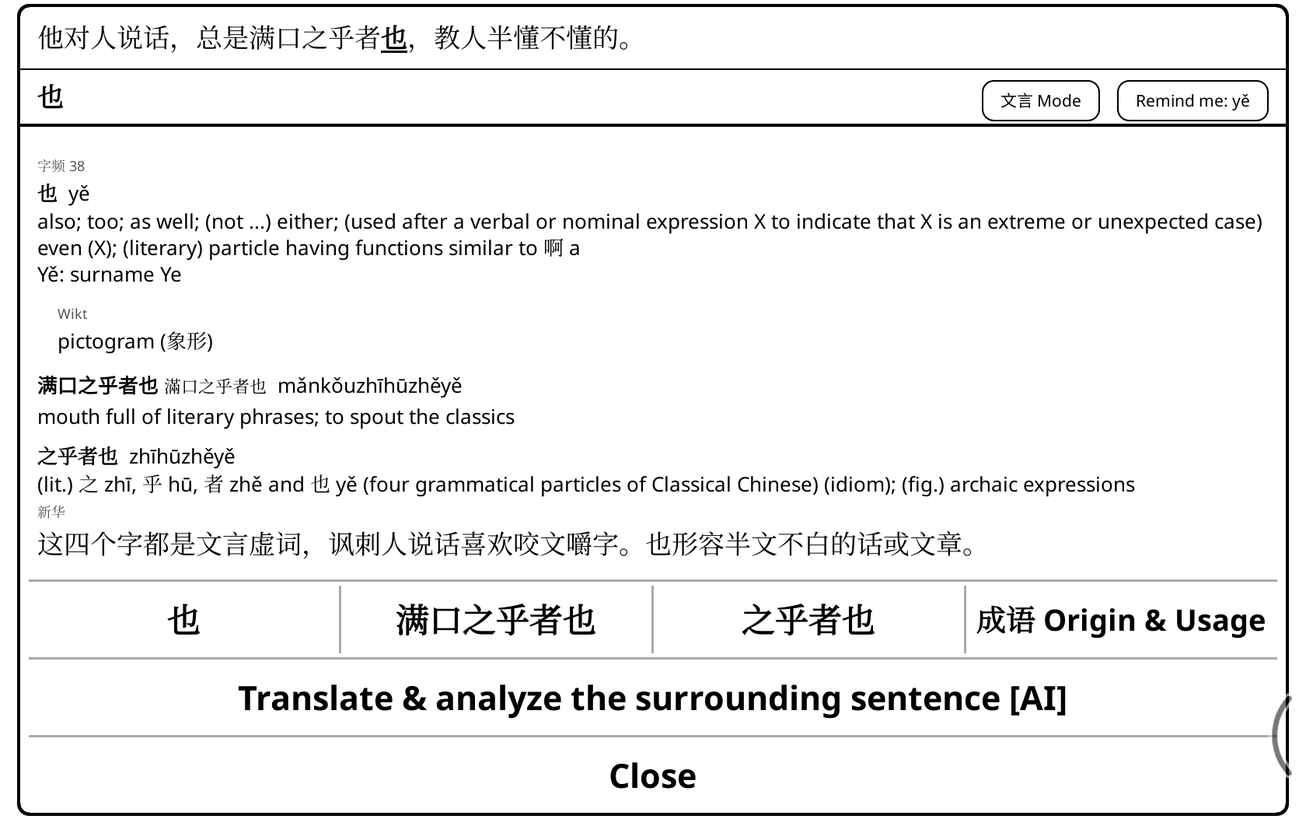
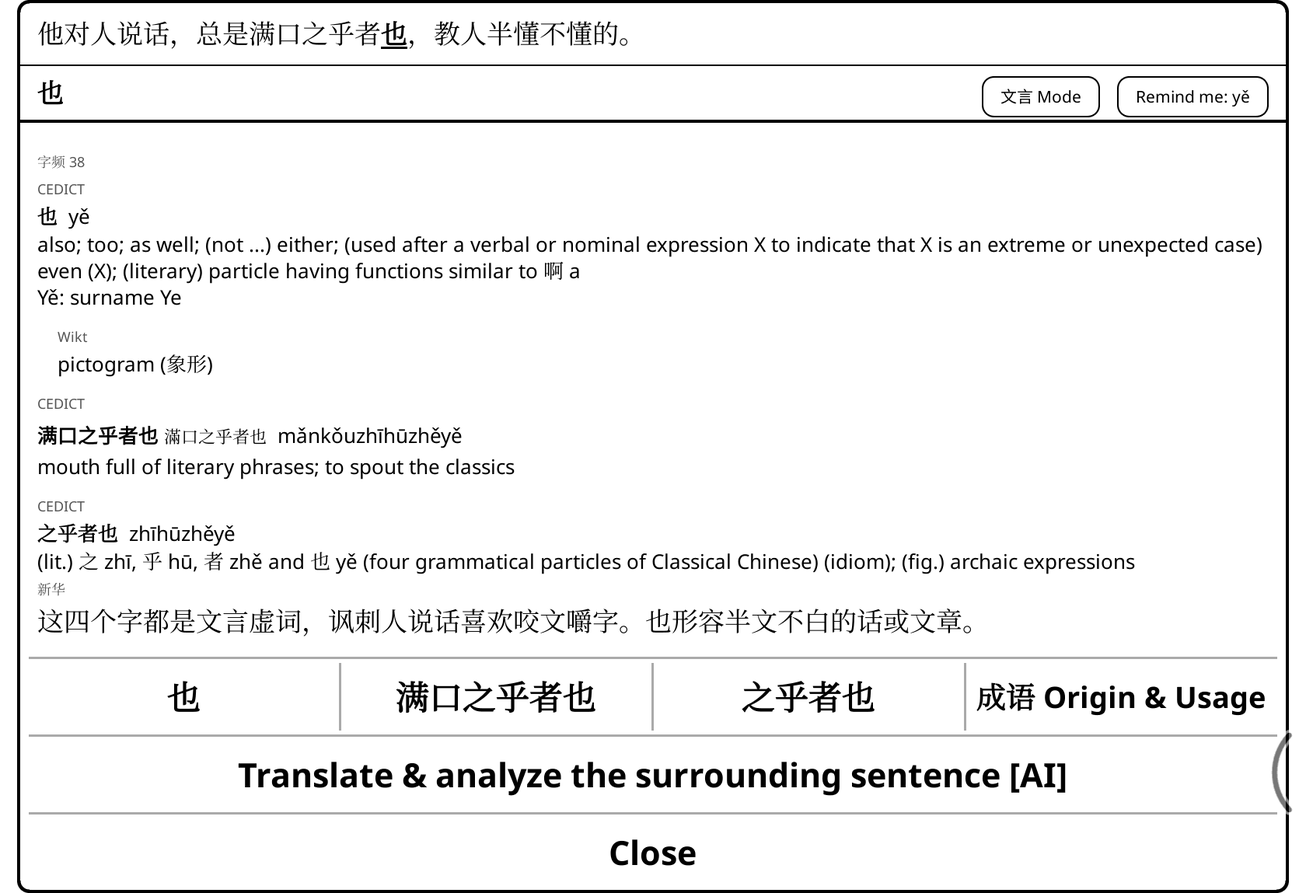
2.17.0: label rows (#59); README shots retaken, crops and the Origin tap moved for the taller popups

Changed region(s): [[0.0, 0.0, 0.9905, 1.0], [0.4333, 0.2431, 0.9595, 0.3039]]

diff --git a/tools/make_screenshots.py b/tools/make_screenshots.py
@@ -150,21 +150,21 @@ SHOTS = {
         frames=[(1, (95, 1191))]),
     "context": dict(page="kyj14", taps=[("间", 1, (773, 500), [
         "**间** 間  jiàn · likely here", "**间或** 間或  jiànhuò · decides 间's reading"])],
-        frames=[(1, (172, 1090))]),
+        frames=[(1, (137, 1126))]),
     "components": dict(page="kyj13", taps=[("茴", 1, (988, 790), [
         "**茴**  huí", "**艹** cǎo  grass; plant (草字头)  → meaning",
         "**回** huí  to go back; to return  → sound (same sound)", "**茴香豆**  huíxiāngdòu"])],
-        frames=[(1, (163, 1100))]),
+        frames=[(1, (120, 1143))]),
     "traditional": dict(page="aq59", taps=[("观", 1, (170, 965), [
         "**观** 觀  guān · likely here", "traditional 觀:", "**雚** guàn", "→ sound (same sound)",
         "simplified: 雚 → 又", "**观音** 觀音  Guānyīn · decides 观's reading"])],
-        frames=[(1, (138, 1124))]),
+        frames=[(1, (103, 1160))]),
     "chengyu": dict(page="kyj13", taps=[("也", 3, (170, 590), [
-        "**之乎者也**  zhīhūzhěyě", "[新华] 这四个字都是文言虚词"]), ("出处", None, (1440, 890), [])],
-        frames=[(1, (105, 1158)), (2, (20, 700))]),
+        "**之乎者也**  zhīhūzhěyě", "[新华] 这四个字都是文言虚词"]), ("出处", None, (1440, 955), [])],
+        frames=[(1, (57, 1206)), (2, (20, 700))]),
     "labels": dict(page="sg1", taps=[("秋", 1, (775, 665), [
         "**秋** 秋/鞦  qiū", "[MMAH]", "  [國語辭典]\n  **秋月春风**", "**秋月春风** 秋月春風  qiū yuè chūn fēng", MOE_QUOTE, "[Wikt]", "**秋月**  qiūyuè"])],
-        frames=[(1, (83, 1179))]),
+        frames=[(1, (66, 1198))]),
     # A character of the popup's own text: 歡, inside MOE's quotation of 〈琵琶行〉
     # (MOE's own characters, #48), opens its popup on top; the context line is
     # the quotation (the device's log must give it as the sentence), the 歡
@@ -172,7 +172,7 @@ SHOTS = {
     "nested": dict(page="sg1", taps=[("秋", 1, (775, 665), ["  [國語辭典]\n  **秋月春风** 秋月春風  qiū yuè chūn fēng",
                                                             MOE_QUOTE]),
                                      (MOE_QUOTE[3], "nested", (1322, 772), [MOE_QUOTE])],
-                   frames=[(2, (83, 1179))]),
+                   frames=[(2, (66, 1198))]),
     "translate": dict(page="kyj13", taps=[("窃", 1, (1465, 995), ["**窃** 竊  qiè"])],
         frames=[(1, (15, 1166))]),
     # The same popup, then its Translate & Analyze button (at `koassistant`):
@@ -200,7 +200,7 @@ SHOTS = {
         frames=[(1, (95, 1191))]),
     # The popup's title-bar button, on 盘 in that paragraph.
     "mark-button": dict(page="aq59", threshold=0, drawn=AQ59_ALL, taps=[("盘", 1, (260, 565), ["**盘** 盤  pán"])],
-                        frames=[(1, (188, 561))]),
+                        frames=[(1, (169, 542))]),
 }
 
 

diff --git a/README.md b/README.md
@@ -26,7 +26,7 @@ never modified.
 
 KOReader 中文阅读插件：点一个字，即可看到它在本句中组成的词及其释义，并标出它在此处的读音；还可在字上方显示拼音，从只标生僻字到每个字都标（学习模式），学会一个读音点一下即可隐去，初学者和熟练读者都适用。
 
-![The opening of 三国演义 第一回 on a Boox Go 7: the chapter title, then the popup on 密. At its top, the line 时有宦官曹节等弄权，窦武、陈蕃谋诛之，作事不密，反为所害，中涓自此愈横。 with 密 in bold and underlined; the title bar, 密 on the left and the buttons 文言 Mode and Remind me: mì on the right; then 字频 646 in small grey, 密 mì, "dense; close; … (bound form) secret; confidential …", "Mì: surname Mi"; its parts, labelled Wikt: 宓 mì still; silent → sound (same sound), 山 shān mountain → meaning; then 不密 bùmì "(literary) not well thought out; (literary) not secret", labelled Wikt; buttons 密 and 不密, then Translate & analyze the surrounding sentence [AI] on its own row, then Close at the bottom. Below the popup, the end of the paragraph's last line, 密，反为所害，中涓自此愈横。, with 密 underlined on the page](docs/main.png)
+![The opening of 三国演义 第一回 on a Boox Go 7: the chapter title, then the popup on 密. At its top, the line 时有宦官曹节等弄权，窦武、陈蕃谋诛之，作事不密，反为所害，中涓自此愈横。 with 密 in bold and underlined; the title bar, 密 on the left and the buttons 文言 Mode and Remind me: mì on the right; then 字频 646 in small grey and, on the row below, the label CEDICT; 密 mì, "dense; close; … (bound form) secret; confidential …", "Mì: surname Mi"; its parts, labelled Wikt: 宓 mì still; silent → sound (same sound), 山 shān mountain → meaning; then 不密 bùmì "(literary) not well thought out; (literary) not secret", labelled Wikt; buttons 密 and 不密, then Translate & analyze the surrounding sentence [AI] on its own row, then Close at the bottom. Below the popup, the end of the paragraph's last line, 密，反为所害，中涓自此愈横。, with 密 underlined on the page](docs/main.png)
 
 It has only been tested on a Boox Go 7, but it should work on any e-reader that runs KOReader:
 Kobo, Kindle, PocketBook, and Android devices such as Boox.
@@ -38,22 +38,22 @@ Kobo, Kindle, PocketBook, and Android devices such as Boox.
 </tr>
 <tr>
 <td><img src="docs/off-on.png" alt="The 临江仙 that opens 三国演义, pinyin off (top) and on (bottom): with it on, only 樵 qiáo and 渚 zhǔ get pinyin, the rest of the page stays clean"><br><a href="#usage"><b>Pinyin only above the hard characters</b></a>, at the level you choose (here the default: outside the 3,500 most common)</td>
-<td><img src="docs/context.png" alt="Popup for 间 in 孔乙己's 虽然间或没有现钱: at the top the line 但他在我们店里，品行却比别人都好，就是从不拖欠；虽然间或没有现钱，… with 间 marked; the 文言 Mode and reading-mark buttons in the title bar; 字频 113, then 间 間 jiàn · likely here, jiān listed after it; its parts 门 and 日 labelled MMAH; 间或 間或 jiànhuò · decides 间's reading, occasionally; now and then"><br><a href="#the-popup"><b>The reading it has here</b></a>, and the word that decides it: 间 is <i>jiàn</i> in 间或</td>
+<td><img src="docs/context.png" alt="Popup for 间 in 孔乙己's 虽然间或没有现钱: at the top the line 但他在我们店里，品行却比别人都好，就是从不拖欠；虽然间或没有现钱，… with 间 marked; the 文言 Mode and reading-mark buttons in the title bar; 字频 113, then the label CEDICT, then 间 間 jiàn · likely here, jiān listed after it; its parts 门 and 日 labelled MMAH; labelled CEDICT, 间或 間或 jiànhuò · decides 间's reading, occasionally; now and then"><br><a href="#the-popup"><b>The reading it has here</b></a>, and the word that decides it: 间 is <i>jiàn</i> in 间或</td>
 </tr>
 <tr>
-<td><img src="docs/components.png" alt="Popup for 茴 in 孔乙己's 要一碟茴香豆: at the top the line 他不回答，对柜里说：“温两碗酒，要一碟茴香豆。” with 茴 marked; the 文言 Mode and reading-mark buttons in the title bar; 字频 4,633, then 茴 huí (bound form) fennel; its parts, labelled Wikt: 艹 cǎo grass; plant (草字头) → meaning, 回 huí to go back → sound (same sound); then 茴香豆 and 茴香"><br><a href="#character-components"><b>What each character is made of</b></a>: 茴 is 艹 for the meaning and 回 <i>huí</i> for the sound</td>
-<td><img src="docs/traditional.png" alt="Popup for 观 in 阿Q正传's 观音娘娘: at the top the line …而且又不见了观音娘娘座前的一个宣德炉。 with 观 marked; the 文言 Mode and reading-mark buttons in the title bar; 字频 407, then 观 觀 guān · likely here (觀 smaller), with guàn and Guàn after it; traditional 觀: 雚 guàn (archaic) stork; heron → sound (same sound), 見 jiàn see → meaning, simplified: 雚 → 又; 观音 觀音 Guānyīn · decides 观's reading"><br><a href="#character-components"><b>Parts the simplification hid</b></a>: 观 is read through 觀, 雚 <i>guàn</i> → sound</td>
+<td><img src="docs/components.png" alt="Popup for 茴 in 孔乙己's 要一碟茴香豆: at the top the line 他不回答，对柜里说：“温两碗酒，要一碟茴香豆。” with 茴 marked; the 文言 Mode and reading-mark buttons in the title bar; 字频 4,633, then the label CEDICT, then 茴 huí (bound form) fennel; its parts, labelled Wikt: 艹 cǎo grass; plant (草字头) → meaning, 回 huí to go back → sound (same sound); then 茴香豆 and 茴香, each labelled CEDICT"><br><a href="#character-components"><b>What each character is made of</b></a>: 茴 is 艹 for the meaning and 回 <i>huí</i> for the sound</td>
+<td><img src="docs/traditional.png" alt="Popup for 观 in 阿Q正传's 观音娘娘: at the top the line …而且又不见了观音娘娘座前的一个宣德炉。 with 观 marked; the 文言 Mode and reading-mark buttons in the title bar; 字频 407, then the label CEDICT, then 观 觀 guān · likely here (觀 smaller), with guàn and Guàn after it; traditional 觀: 雚 guàn (archaic) stork; heron → sound (same sound), 見 jiàn see → meaning, simplified: 雚 → 又; labelled CEDICT, 观音 觀音 Guānyīn · decides 观's reading"><br><a href="#character-components"><b>Parts the simplification hid</b></a>: 观 is read through 觀, 雚 <i>guàn</i> → sound</td>
 </tr>
 <tr>
-<td><img src="docs/chengyu.png" alt="Popup for 也 in 孔乙己's 满口之乎者也: at the top the line 他对人说话，总是满口之乎者也，教人半懂不懂的。 with 也 marked; the 文言 Mode and reading-mark buttons in the title bar; then 字频 38, 也 yě; its Wikt line pictogram (象形), 满口之乎者也 (滿口之乎者也 beside it) and 之乎者也 from CC-CEDICT, 之乎者也 with a Chinese line labelled 新华: 这四个字都是文言虚词，讽刺人说话喜欢咬文嚼字。也形容半文不白的话或文章。; a 成语 Origin &amp; Usage button"><br><a href="#chengyu"><b>Chengyu explained</b></a>: 之乎者也 with Xinhua's line (optional file) …</td>
+<td><img src="docs/chengyu.png" alt="Popup for 也 in 孔乙己's 满口之乎者也: at the top the line 他对人说话，总是满口之乎者也，教人半懂不懂的。 with 也 marked; the 文言 Mode and reading-mark buttons in the title bar; then 字频 38 and the label CEDICT, 也 yě; its Wikt line pictogram (象形), 满口之乎者也 (滿口之乎者也 beside it) and 之乎者也, each labelled CEDICT, 之乎者也 with a Chinese line labelled 新华: 这四个字都是文言虚词，讽刺人说话喜欢咬文嚼字。也形容半文不白的话或文章。; a 成语 Origin &amp; Usage button"><br><a href="#chengyu"><b>Chengyu explained</b></a>: 之乎者也 with Xinhua's line (optional file) …</td>
 <td><img src="docs/chengyu-2.png" alt="The Origin &amp; Usage view for 之乎者也 from 新华成语: 释义; 出处 宋·文莹《湘山野录》：“之乎者也，助得甚事？”; 例句 他对人说话，总是满口之乎者也，叫人半懂不懂的。"><br>… and its <a href="#chengyu"><b>Origin &amp; Usage</b></a> view: the classical source and an example from this same passage of 孔乙己</td>
 </tr>
 <tr>
-<td><img src="docs/classical.png" alt="Popup for 之 in 三国演义's 窦武、陈蕃谋诛之: the line 时有宦官曹节等弄权，窦武、陈蕃谋诛之，作事不密，反为所害，中涓自此愈横。 with 之 marked; the title bar, 之 on the left and the buttons 文言 Mode ✓ and Remind me: zhī on the right; first the block labelled 文言 · 字频 69, in full: 之, him; her; it; them (object pronoun in non-subject position), genitive or attributive marker (possession or modification), nominalizer or subordinate-clause particle in a subject-predicate construct, this; these; that, to go; to arrive; below it 之 zhī (possessive particle, literary equivalent of 的 de); him; her; it from CC-CEDICT; then its parts, labelled Wikt: 止 zhǐ foot → meaning, 一 yī the beginning place → meaning"><br><a href="#classical-mode"><b>Classical mode</b></a>: one tap on 文言 Mode puts the senses classical texts use first, here 之 as <i>him; her; it; them</i> in 窦武、陈蕃谋诛之</td>
-<td><img src="docs/nested.png" alt="Popup for 秋 in the 临江仙, its title bar with the buttons 文言 Mode and Remind me: qiū, and on top of it the popup for 歡, tapped in MOE's quotation of 〈琵琶行〉: its line at the top is 「今年歡笑復明年，秋月春風等閒度。」 with 歡 marked and no buttons in its title bar, then 字频 443, 歡 huān, its parts 雚 and 欠, 歡笑 huānxiào, and the buttons 歡 and 歡笑, then Close at the bottom (no Translate in a popup opened from a popup)"><br><a href="#tapping-a-character-in-the-popup"><b>Read the dictionary by tapping</b></a>: 歡, tapped in MOE's quotation of 〈琵琶行〉, opens its own popup on top</td>
+<td><img src="docs/classical.png" alt="Popup for 之 in 三国演义's 窦武、陈蕃谋诛之: the line 时有宦官曹节等弄权，窦武、陈蕃谋诛之，作事不密，反为所害，中涓自此愈横。 with 之 marked; the title bar, 之 on the left and the buttons 文言 Mode ✓ and Remind me: zhī on the right; first 字频 69, then the label 文言 on a row of its own and the Classical entry, in full: 之, him; her; it; them (object pronoun in non-subject position), genitive or attributive marker (possession or modification), nominalizer or subordinate-clause particle in a subject-predicate construct, this; these; that, to go; to arrive; below it, labelled CEDICT, 之 zhī (possessive particle, literary equivalent of 的 de); him; her; it; then its parts, labelled Wikt: 止 zhǐ foot → meaning, 一 yī the beginning place → meaning"><br><a href="#classical-mode"><b>Classical mode</b></a>: one tap on 文言 Mode puts the senses classical texts use first, here 之 as <i>him; her; it; them</i> in 窦武、陈蕃谋诛之</td>
+<td><img src="docs/nested.png" alt="Popup for 秋 in the 临江仙, its title bar with the buttons 文言 Mode and Remind me: qiū, and on top of it the popup for 歡, tapped in MOE's quotation of 〈琵琶行〉: its line at the top is 「今年歡笑復明年，秋月春風等閒度。」 with 歡 marked and no buttons in its title bar, then 字频 443 and the label CEDICT, 欢 歡 huān, its parts 雚 and 欠 labelled Wikt, 欢笑 歡笑 huānxiào labelled CEDICT, and the buttons 歡 and 歡笑, then Close at the bottom (no Translate in a popup opened from a popup)"><br><a href="#tapping-a-character-in-the-popup"><b>Read the dictionary by tapping</b></a>: 歡, tapped in MOE's quotation of 〈琵琶行〉, opens its own popup on top</td>
 </tr>
 <tr>
-<td><img src="docs/labels.png" alt="Popup for 秋 in the 临江仙's 惯看秋月春风: at the top the line 白发渔樵江渚上，惯看秋月春风。 with 秋 marked; the 文言 Mode and reading-mark buttons in the title bar; 字频 1,442, then 秋 秋/鞦 qiū from CC-CEDICT (used in 鞦韆|秋千 qiūqiān); its parts 禾 and 火 labelled MMAH; 秋月 labelled Wikt; last, 秋月春风 秋月春風 labelled 國語辭典 with MOE's definition in its own traditional characters, in larger type, quoting 白居易's 〈琵琶行〉: 「今年歡笑復明年，秋月春風等閒度。」; a 成语 Origin &amp; Usage button"><br><a href="#fallback-dictionaries"><b>Several dictionaries, each labelled</b></a>: CC-CEDICT for 秋, Wiktionary for 秋月, and MOE (optional) for 秋月春风, in larger type</td>
+<td><img src="docs/labels.png" alt="Popup for 秋 in the 临江仙's 惯看秋月春风: at the top the line 白发渔樵江渚上，惯看秋月春风。 with 秋 marked; the 文言 Mode and reading-mark buttons in the title bar; 字频 1,442, then the label CEDICT on a row of its own, then 秋 秋/鞦 qiū (used in 鞦韆|秋千 qiūqiān); its parts 禾 and 火 labelled MMAH; 秋月 labelled Wikt; last, 秋月春风 秋月春風 labelled 國語辭典 with MOE's definition in its own traditional characters, in larger type, quoting 白居易's 〈琵琶行〉: 「今年歡笑復明年，秋月春風等閒度。」; a 成语 Origin &amp; Usage button"><br><a href="#fallback-dictionaries"><b>Several dictionaries, each labelled</b></a>: CC-CEDICT for 秋, Wiktionary for 秋月, and MOE (optional) for 秋月春风, in larger type</td>
 <td><img src="docs/translate-result.png" alt="KOAssistant's Translate &amp; Analyze viewer, titled with the model gemini-3.5-flash-lite, its whole reply shown as its two pages, joined by a dashed line. Highlighted text: 孔乙己便涨红了脸，额上的青筋条条绽出，争辩道：“窃书不能算偷……窃书！ Translation: Kong Yiji flushed red right away, the veins on his forehead bulging out one by one, and he argued, &quot;Stealing books cannot be considered stealing... stealing books!&quot; Then one line per word, in bold characters with pinyin: 孔乙己 (Kǒng Yǐjǐ) Kong Yiji, the name of the character; 便 (biàn) right away, then; 涨红了脸 (zhǎng hóng le liǎn) flushed red in the face [涨 swell/flush + 红 red + 了 shows change + 脸 face]; 额 (é) forehead; 上 (shàng) on, placed after a noun; 的 (de) connects the forehead to the veins that belong to it; 青筋 (qīng jīn) blue veins; 条条 (tiáo tiáo) strip by strip, one by one, repeated to show multiple veins standing out; 绽出 (zhàn chū) burst out, bulge out; 争辩 (zhēng biàn) argue, debate; 道 (dào) say, used here to introduce spoken words; 窃书 (qiè shū) stealing books, literary, old-fashioned words [窃 steal secretly + 书 book]; 不能 (bù néng) cannot; 算 (suàn) count as; 偷 (tōu) steal, the everyday, common word for stealing, unlike the literary 窃 used earlier. Below, the viewer's buttons: Reply, Copy, Save to Note, Notebook, Pin, Close and others"><br><a href="#translating-the-sentence"><b>Translate &amp; Analyze the sentence</b></a> with KOAssistant: a translation and a plain-English, word-by-word breakdown of 孔乙己's 窃书不能算偷, down to why he says 窃 and not 偷 (your own AI provider, while Wi-Fi is on)</td>
 </tr>
 </table>
@@ -206,7 +206,7 @@ you learn.
 4. For a reading you keep forgetting, the same button on a character without pinyin reads
    **Remind me: …**, which does the opposite: that reading always gets pinyin, at any level.
 
-![The popup for 盘 in 阿Q正传 in learner mode: at the top the sentence 赵秀才消息灵，一知道革命党已在夜间进城，便将辫子盘在顶上，一早去拜访那历来也不相能的钱洋鬼子。 with 盘 marked; then the title bar, 盘 on the left and the buttons 文言 Mode and I know pán on the right; below it 字频 1,107 and 盘 盤 pán with its CC-CEDICT senses](docs/mark-button.png)
+![The popup for 盘 in 阿Q正传 in learner mode: at the top the sentence 赵秀才消息灵，一知道革命党已在夜间进城，便将辫子盘在顶上，一早去拜访那历来也不相能的钱洋鬼子。 with 盘 marked; then the title bar, 盘 on the left and the buttons 文言 Mode and I know pán on the right; below it 字频 1,107, the label CEDICT and 盘 盤 pán with its senses](docs/mark-button.png)
 
 Your marks are kept outside the plugin's folder, so updates and reinstalls keep them (see
 [Known and remind-me readings](#known-and-remind-me-readings) for the file to back up). When the
@@ -389,7 +389,7 @@ font chosen in KOReader's font menu, not a font the book embeds or sets in its C
 that font lacks comes from KOReader's usual fallback fonts. For a PDF, or when the font cannot be
 loaded, the popup uses the UI font. Turned off, the popup is exactly as before.
 
-![A popup for 观 in 阿Q正传: at the top the line 尼姑待他们走后，定了神来检点，龙牌固然已经碎在地上了，而且又不见了观音娘娘座前的一个宣德炉。 with 观 in bold and underlined, then 字频 407 and 观 觀 guān · likely here with its other readings, its traditional form 觀's parts, and 观音 觀音 Guānyīn · decides 观's reading](docs/traditional.png)
+![A popup for 观 in 阿Q正传: at the top the line 尼姑待他们走后，定了神来检点，龙牌固然已经碎在地上了，而且又不见了观音娘娘座前的一个宣德炉。 with 观 in bold and underlined, then 字频 407, the label CEDICT and 观 觀 guān · likely here with its other readings, its traditional form 觀's parts, and, labelled CEDICT, 观音 觀音 Guānyīn · decides 观's reading](docs/traditional.png)
 
 </details>
 
@@ -405,7 +405,7 @@ the entry is for), the components, or the English glosses.
 <details>
 <summary>How popups on popups work</summary>
 
-![Popup for 秋 in the 临江仙, its title bar with the buttons 文言 Mode and Remind me: qiū, and on top of it the popup for 歡, tapped in MOE's quotation of 〈琵琶行〉: its line at the top is 「今年歡笑復明年，秋月春風等閒度。」 with 歡 marked and no buttons in its title bar, then 字频 443, 歡 huān, its parts 雚 and 欠, 歡笑 huānxiào, and the buttons 歡 and 歡笑, then Close at the bottom (no Translate in a popup opened from a popup)](docs/nested.png)
+![Popup for 秋 in the 临江仙, its title bar with the buttons 文言 Mode and Remind me: qiū, and on top of it the popup for 歡, tapped in MOE's quotation of 〈琵琶行〉: its line at the top is 「今年歡笑復明年，秋月春風等閒度。」 with 歡 marked and no buttons in its title bar, then 字频 443 and the label CEDICT, 欢 歡 huān, its parts 雚 and 欠 labelled Wikt, 欢笑 歡笑 huānxiào labelled CEDICT, and the buttons 歡 and 歡笑, then Close at the bottom (no Translate in a popup opened from a popup)](docs/nested.png)
 
 - **Its text is the popup's, not the book's.** The line at the top is the sentence around the
   character in the popup text: cut at 。！？；, a line break, or a closing quote after one of
@@ -552,7 +552,7 @@ checks, where the sources had the sense a classical passage needed, the condense
 times out of 96, and no sense was found that the sources lacked. It is still machine-condensed,
 so if a sense looks odd, check it against CC-CEDICT or MOE. The details are below.
 
-<img src="docs/classical.png" alt="Popup for 之 in 三国演义's 窦武、陈蕃谋诛之: the line 时有宦官曹节等弄权，窦武、陈蕃谋诛之，作事不密，反为所害，中涓自此愈横。 with 之 marked; the title bar, 之 on the left and the buttons 文言 Mode ✓ and Remind me: zhī on the right; first the block labelled 文言 · 字频 69, in full: 之, him; her; it; them (object pronoun in non-subject position), genitive or attributive marker (possession or modification), nominalizer or subordinate-clause particle in a subject-predicate construct, this; these; that, to go; to arrive; below it 之 zhī (possessive particle, literary equivalent of 的 de); him; her; it from CC-CEDICT; then its parts, labelled Wikt: 止 zhǐ foot → meaning, 一 yī the beginning place → meaning">
+<img src="docs/classical.png" alt="Popup for 之 in 三国演义's 窦武、陈蕃谋诛之: the line 时有宦官曹节等弄权，窦武、陈蕃谋诛之，作事不密，反为所害，中涓自此愈横。 with 之 marked; the title bar, 之 on the left and the buttons 文言 Mode ✓ and Remind me: zhī on the right; first 字频 69, then the label 文言 on a row of its own and the Classical entry, in full: 之, him; her; it; them (object pronoun in non-subject position), genitive or attributive marker (possession or modification), nominalizer or subordinate-clause particle in a subject-predicate construct, this; these; that, to go; to arrive; below it, labelled CEDICT, 之 zhī (possessive particle, literary equivalent of 的 de); him; her; it; then its parts, labelled Wikt: 止 zhǐ foot → meaning, 一 yī the beginning place → meaning">
 
 <details>
 <summary>How the Classical dictionary was built, and how well it does</summary>
@@ -585,7 +585,7 @@ While Wi-Fi is on and connected, the popup from the page has one more button on 
 own (popups opened from a popup's text do not). It closes the
 popup and sends **the whole sentence containing the tapped character**:
 
-![Popup for 窃 at the top of the page, its line 孔乙己便涨红了脸，额上的青筋条条绽出，争辩道：“窃书不能算偷……窃书！ with 窃 marked; the buttons 文言 Mode and Remind me: qiè in the title bar; 字频 2,026, 窃 竊 qiè to steal; secretly; (humble) I, its parts 穴 xué and 切 qiè labelled MMAH, then a 窃 button, Translate & analyze the surrounding sentence [AI] and Close; above and below it the page of 孔乙己, the popup covering 窃's own line](docs/translate.png)
+![Popup for 窃 at the top of the page, its line 孔乙己便涨红了脸，额上的青筋条条绽出，争辩道：“窃书不能算偷……窃书！ with 窃 marked; the buttons 文言 Mode and Remind me: qiè in the title bar; 字频 2,026, the label CEDICT, 窃 竊 qiè to steal; secretly; (humble) I, its parts 穴 xué and 切 qiè labelled MMAH, then a 窃 button, Translate & analyze the surrounding sentence [AI] and Close; above and below it the page of 孔乙己, the popup covering 窃's own line](docs/translate.png)
 
 - **With [KOAssistant](https://github.com/zeeyado/koassistant.koplugin) installed** (tested with
   0.23.0; the button uses its internals, so a later version may fall back to the built-in

diff --git a/CHANGELOG.md b/CHANGELOG.md
@@ -1,5 +1,18 @@
 # Changelog
 
+## 2.17.0 (2026-11-20)
+
+Popup labels: the source label on its own row, CC-CEDICT always labelled (#59)
+- The small grey lines above an entry are now two rows: first the tapped character's 字频 rank
+  (and **spoken here**, when shown), then the entry's source label on a row of its own. A label
+  and 字频 no longer share a line (it read `文言 · 字频 16`, as if 字频 belonged to the
+  dictionary).
+- CC-CEDICT entries are now always labelled **CEDICT**, with Classical mode on or off, so the
+  文言 entry and CC-CEDICT's are easy to tell apart.
+- **Source labels** now offers **All entries** (default) and **None**; "Other dictionaries only"
+  is gone, and a saved "other dictionaries only" setting reads as All entries.
+- Menu help, README text and screenshots updated.
+
 ## 2.16.0 (2026-11-20)
 
 Classical mode: the Classical entry first, in full (#56)
